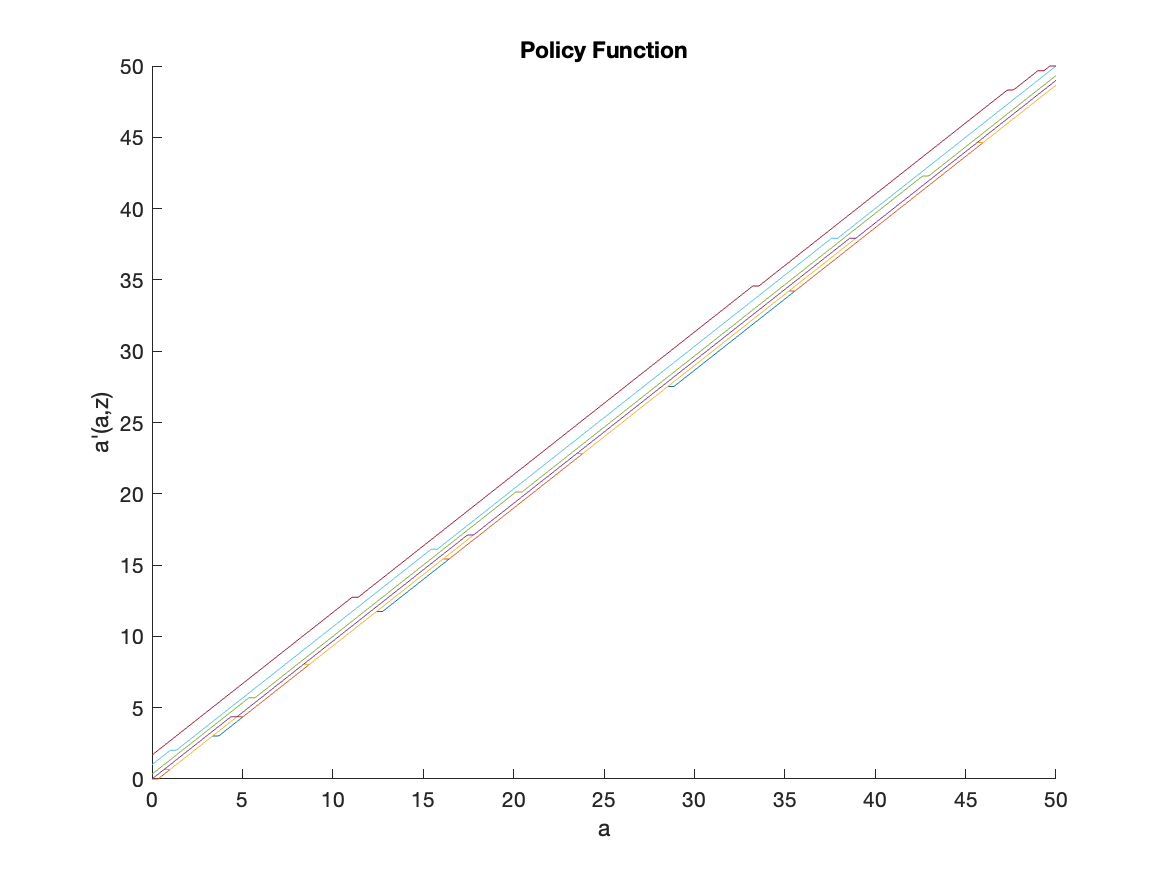
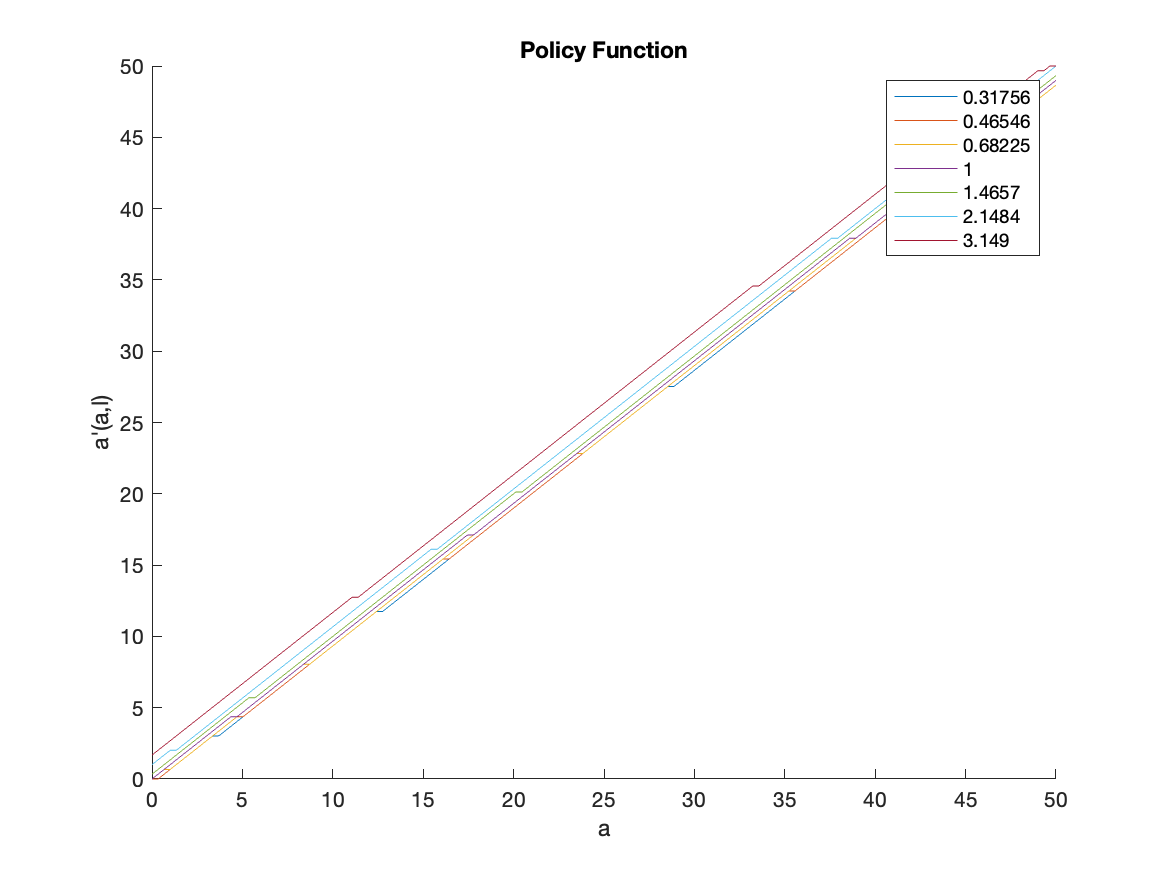
updated plots

Changed region(s): [[0.7404, 0.0926, 0.8946, 0.2469], [0.8021, 0.216, 0.8638, 0.2777], [0.0617, 0.432, 0.0925, 0.5246]]

diff --git a/ECON 509/Assignment 5/aiyagari.m b/ECON 509/Assignment 5/aiyagari.m
@@ -142,11 +142,12 @@ fprintf('Q1.3: Aiyagari Interest Rate = %f\n', r);
 % plot the value functions
 figure;
 hold on
+legend()
 for val = 1:7
-    plot(a_grid, V_new(:, val));
+    plot(a_grid, V_new(:, val),'DisplayName',string(l_grid(val)));
 end
 xlabel('a')
-ylabel('V(a,z)')
+ylabel('V(a,l)')
 title('Value Function')
 hold off;
 saveas(gcf,'value_functions.png');
@@ -154,15 +155,26 @@ saveas(gcf,'value_functions.png');
 % plot the policy functions
 figure;
 hold on
+legend()
 for val = 1:7
-    plot(a_grid, policy(:, val));
+    plot(a_grid, policy(:, val),'DisplayName',string(l_grid(val)));
 end
 xlabel('a')
-ylabel('a''(a,z)')
+ylabel('a''(a,l)')
 title('Policy Function')
 hold off;
 saveas(gcf,'policy_functions.png');
 
-% plot density as heatmap
-heatmap(reshape(stat_dist, 150, 7));
-saveas(gcf,'state_space_density.png');
+% plot density
+dens = reshape(stat_dist, 150, 7);
+figure;
+hold on
+legend()
+for val = 1:7
+    plot(a_grid, dens(:, val),'DisplayName',string(l_grid(val)));
+end
+xlabel('a')
+ylabel('p(a,l)')
+title('Wealth Density Function')
+hold off;
+saveas(gcf,'density_functions.png');
